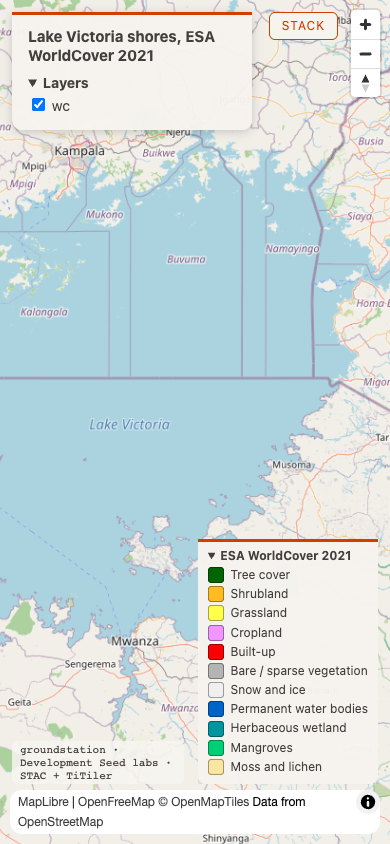
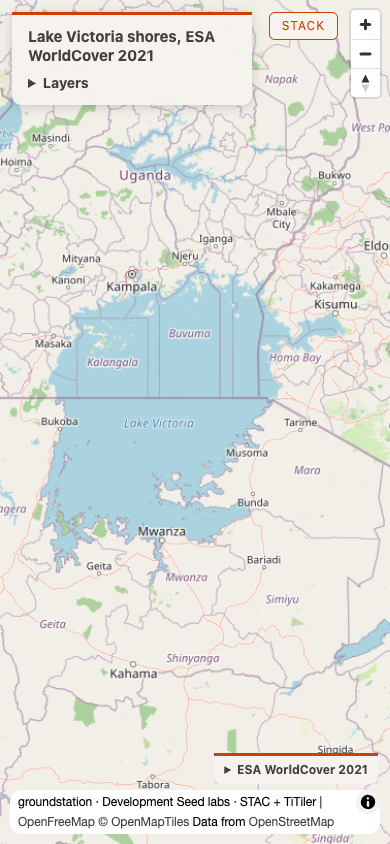
fix(map): on a phone the Development Seed credit folds into the attribution bar (0.52.0)
A lift collides with the notes, side labels and timelapse scrubber that share that corner, and the bar's height varies. At 500 px or narrower the credit div is hidden and its text goes into MapLibre's customAttribution in both templates.

diff --git a/src/groundstation/tools.py b/src/groundstation/tools.py
@@ -2334,8 +2334,8 @@ __BRAND__
   @media (max-width: 500px) { #panel { box-sizing: border-box; max-width: calc(100vw - 150px); } }
   #credit { position: absolute; bottom: 24px; left: 12px; z-index: 2; font: 11px "Roboto Mono", monospace;
     color: var(--mid); background: rgba(247,244,239,.85); padding: 2px 8px; border-radius: 6px; }
-  /* MapLibre opens its attribution on a phone, so the credit rides above it and wraps short of the legend */
-  @media (max-width: 500px) { #credit { bottom: 60px; max-width: 40vw; } }
+  /* no lift: notes, side labels and the scrubber share that corner and the attribution bar's height varies */
+  @media (max-width: 500px) { #credit { display: none; } }
   #mapL { position: absolute; inset: 0; z-index: 1; }
   #divider { position: absolute; top: 0; bottom: 0; width: 3px; margin-left: -1.5px; background: var(--ink);
     z-index: 3; cursor: ew-resize; touch-action: none; }
@@ -2372,8 +2372,10 @@ const BBOX = __BBOX__;
 // watermark tiles under every artifact. OpenFreeMap needs no key and its
 // positron style is the same light look; raster layers stack on it unchanged
 const BASE_STYLE = () => "https://tiles.openfreemap.org/styles/positron";
+// ponytail: on a phone the credit folds behind the (i) with the data credits after the first drag, and shows in clean screenshots there
+const PHONE_ATTRIB = innerWidth <= 500 ? { attributionControl: { customAttribution: document.getElementById("credit").textContent } } : {};
 const MAP_OPTS = { style: BASE_STYLE(), bounds: [[BBOX[0], BBOX[1]], [BBOX[2], BBOX[3]]],
-  fitBoundsOptions: { padding: 40 } };
+  fitBoundsOptions: { padding: 40 }, ...PHONE_ATTRIB };
 
 // CloudFront on titiler.xyz caches the CORS header with the tile and does not
 // vary by origin, so the URL must differ per origin or a cached tile is refused
@@ -3360,8 +3362,8 @@ __BRAND__
   #panel button:disabled { background: var(--mid); cursor: default; }
   #credit { position: absolute; bottom: 24px; left: 12px; z-index: 2; font: 11px "Roboto Mono", monospace;
     color: var(--mid); background: rgba(247,244,239,.85); padding: 2px 8px; border-radius: 6px; }
-  /* MapLibre opens its attribution on a phone, so the credit rides above it and wraps short of the legend */
-  @media (max-width: 500px) { #credit { bottom: 60px; max-width: 40vw; } }
+  /* no lift: notes, side labels and the scrubber share that corner and the attribution bar's height varies */
+  @media (max-width: 500px) { #credit { display: none; } }
   .clean #panel, .clean #credit, .clean #stack-toggle, .clean #stack,
   .clean .maplibregl-ctrl-top-right { display: none !important; }
 </style>
@@ -3387,8 +3389,10 @@ const CENTER = [(BBOX[0] + BBOX[2]) / 2, (BBOX[1] + BBOX[3]) / 2];
 const BOUNDS = [[BBOX[0], BBOX[1]], [BBOX[2], BBOX[3]]];
 let exaggeration = __EXAGGERATION__;
 
+// ponytail: on a phone the credit folds behind the (i) with the data credits after the first drag, and shows in clean screenshots there
+const PHONE_ATTRIB = innerWidth <= 500 ? { attributionControl: { customAttribution: document.getElementById("credit").textContent } } : {};
 const map = new maplibregl.Map({ container: "map", style: STYLE, bounds: BOUNDS,
-  fitBoundsOptions: { padding: 40 }, maxPitch: 85 });
+  fitBoundsOptions: { padding: 40 }, maxPitch: 85, ...PHONE_ATTRIB });
 window.gsMaps = [map];  // exposed for scripted screenshots and checks
 map.addControl(new maplibregl.NavigationControl({ visualizePitch: true }));
 map.on("load", () => {

diff --git a/evals/unit_checks.py b/evals/unit_checks.py
@@ -2795,8 +2795,9 @@ def t_layer_panel_folds_at_phone_width_like_the_legend():
     assert '<details class="fold" open>' in t and 'innerWidth <= 500' in t and "#panel details" in t
     assert "max-width: calc(100vw - 150px)" in t  # clear of the STACK button
     assert "#panel details:has(#toggles:empty) { display: none; }" in t  # a timelapse has no rows
-    rule = "@media (max-width: 500px) { #credit { bottom: 60px; max-width: 40vw; } }"
-    assert rule in t and rule in tools._MAP3D_TEMPLATE  # credit rides above the attribution on a phone
+    for tpl in (t, tools._MAP3D_TEMPLATE):  # the credit folds into MapLibre's attribution on a phone
+        assert "@media (max-width: 500px) { #credit { display: none; } }" in tpl
+        assert 'attributionControl: { customAttribution: document.getElementById("credit").textContent }' in tpl
 
 
 def t_next_pass_names_the_night_passes_it_dropped():
